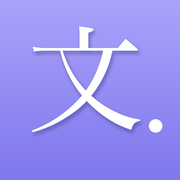
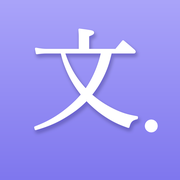
アイコンの「文」を少し太く・少し小さく

diff --git a/sw.js b/sw.js
@@ -1,4 +1,4 @@
-const V="hs-v53",SHELL=["./","index.html","app.js","manifest.webmanifest","icon-180.png"];
+const V="hs-v54",SHELL=["./","index.html","app.js","manifest.webmanifest","icon-180.png"];
 self.addEventListener("install",e=>{e.waitUntil(caches.open(V).then(c=>c.addAll(SHELL.map(u=>new Request(u,{cache:"reload"})))).then(()=>self.skipWaiting()))});
 self.addEventListener("activate",e=>{e.waitUntil(caches.keys().then(ks=>Promise.all(ks.filter(k=>k!==V).map(k=>caches.delete(k)))).then(()=>self.clients.claim()))});
 self.addEventListener("fetch",e=>{const u=new URL(e.request.url);
